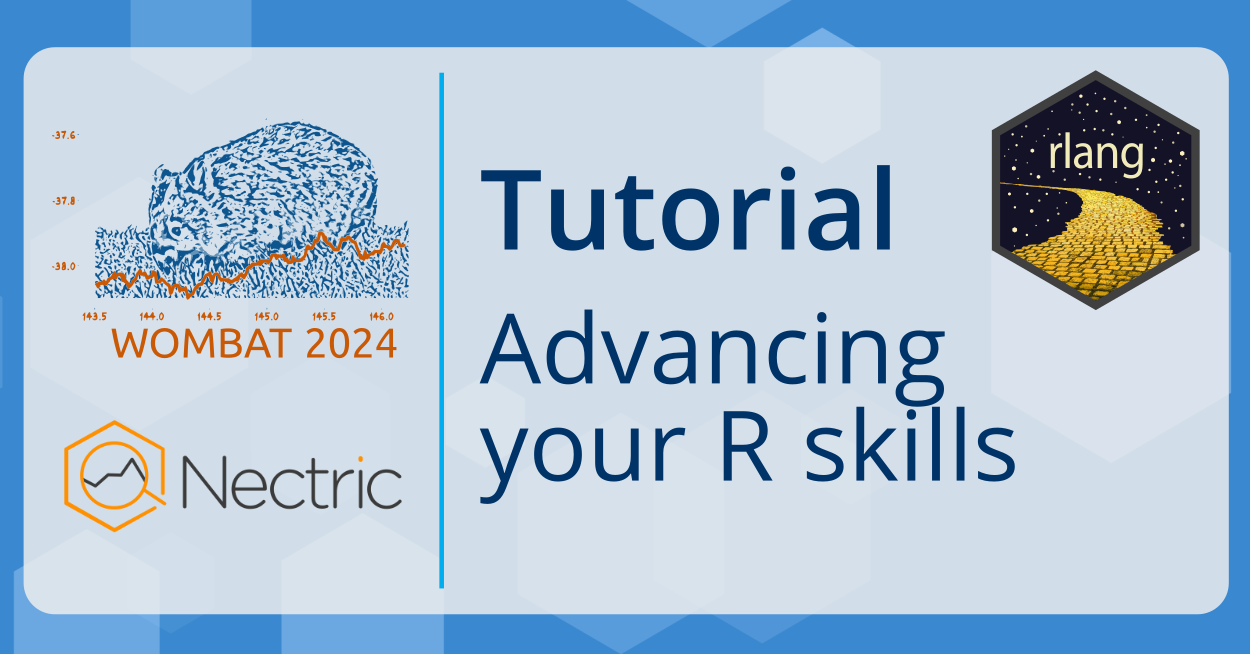
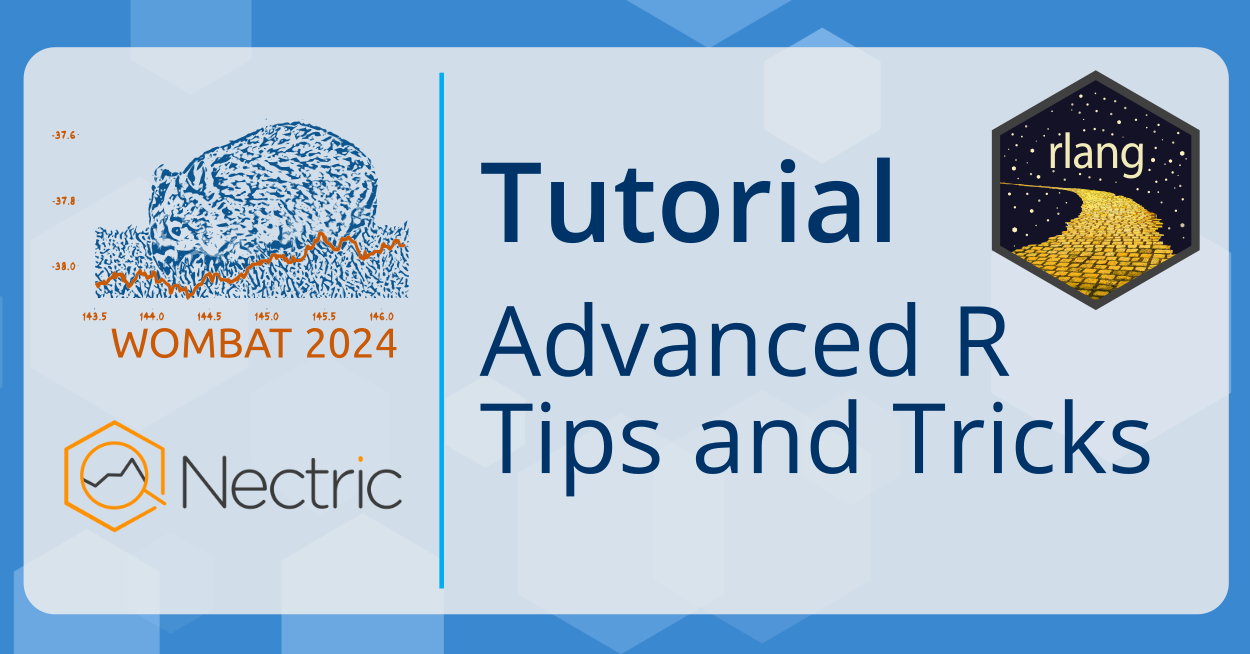
Rename workshop

Changed region(s): [[0.3744, 0.4587, 0.936, 0.7645], [0.4056, 0.2446, 0.7176, 0.3976], [0.3744, 0.2446, 0.4368, 0.2752]]

diff --git a/README.html b/README.html
@@ -48,7 +48,7 @@ ul.task-list li input[type="checkbox"] {
 
 <!-- README.md is generated from README.qmd. Please edit that file -->
 <section id="wombat-2024-advancing-your-r-skills" class="level1">
-<h1>WOMBAT 2024: Advancing your R skills</h1>
+<h1>WOMBAT 2024: Advanced R Tips and Tricks</h1>
 <!-- badges: start -->
 <!-- badges: end -->
 <p>Slides and notes for a workshop at the <a href="https://wombat2024.numbat.space/">WOMBAT 2024</a> workshop (22nd October 2024) in Melbourne.</p>

diff --git a/README.md b/README.md
@@ -2,7 +2,7 @@
 
 <!-- README.md is generated from README.qmd. Please edit that file -->
 
-# WOMBAT 2024: Advancing your R skills
+# WOMBAT 2024: Advanced R Tips and Tricks
 
 <!-- badges: start -->
 <!-- badges: end -->
